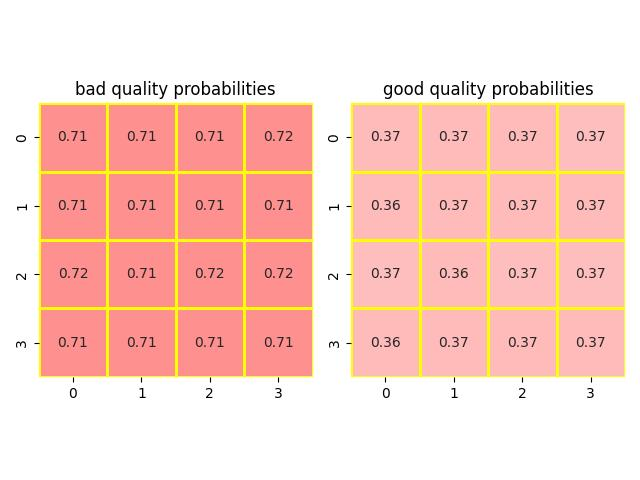
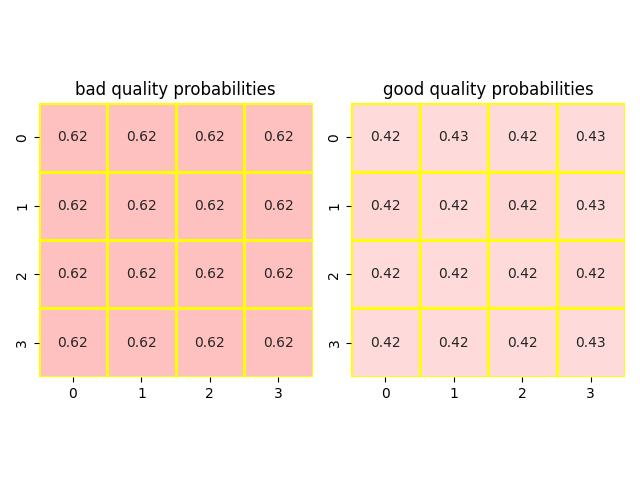
ss

diff --git a/mainScript.py b/mainScript.py
@@ -20,7 +20,7 @@ def main():
 		print("usage: python mainScript.py <name of file inside data>")
 		exit()
 	else:
-		distance = 1 #distance between nodes
+		distance = 5 #distance between nodes
 		model_1=getModel('1')
 		model_2=getModel('2')
 		lst = []
@@ -63,7 +63,7 @@ def main():
 		predictedGrid_2 = [[model_2.predict(numpy.asarray(i.values).reshape(1, -1)).tolist()[0] if i != None else -1 for i in j] for j in grid]
 
 		cmap=LinearSegmentedColormap.from_list('bgr',["b","b","g", "w", "r"], N=256)
-		fig, ax =plt.subplots(1,2,figsize = (10,15))
+		fig, ax =plt.subplots(1,2)
 		ax[0].set_title('bad quality probabilities')
 		sns.heatmap(predictedGrid_0_1, linewidths=2, linecolor='yellow', cmap=cmap, vmin=-1, vmax=1, annot=True, square=True, ax=ax[0], cbar=False)
 		plt.savefig(f"graphs/{sys.argv[1][:-4]}_model_1.jpeg")
@@ -77,7 +77,7 @@ def main():
 
 
 		cmap = LinearSegmentedColormap.from_list('Custom', ((0.0, 0.0, 0.8, 1.0), (0.8, 0.0, 0.0, 1.0), (0.0, 0.8, 0.0, 1.0)), 3)
-		fig, ax =plt.subplots(figsize = (5,15))
+		fig, ax =plt.subplots()
 		ax.set_title('0=bad, 1=good,-1=land there')
 		sns.heatmap(predictedGrid_2, linewidths=2, linecolor='yellow', cmap=cmap, vmin=-1, vmax=1, cbar=False, annot=True, square=True, ax=ax)
 		plt.savefig(f"graphs/{sys.argv[1][:-4]}_model_2.jpeg")
